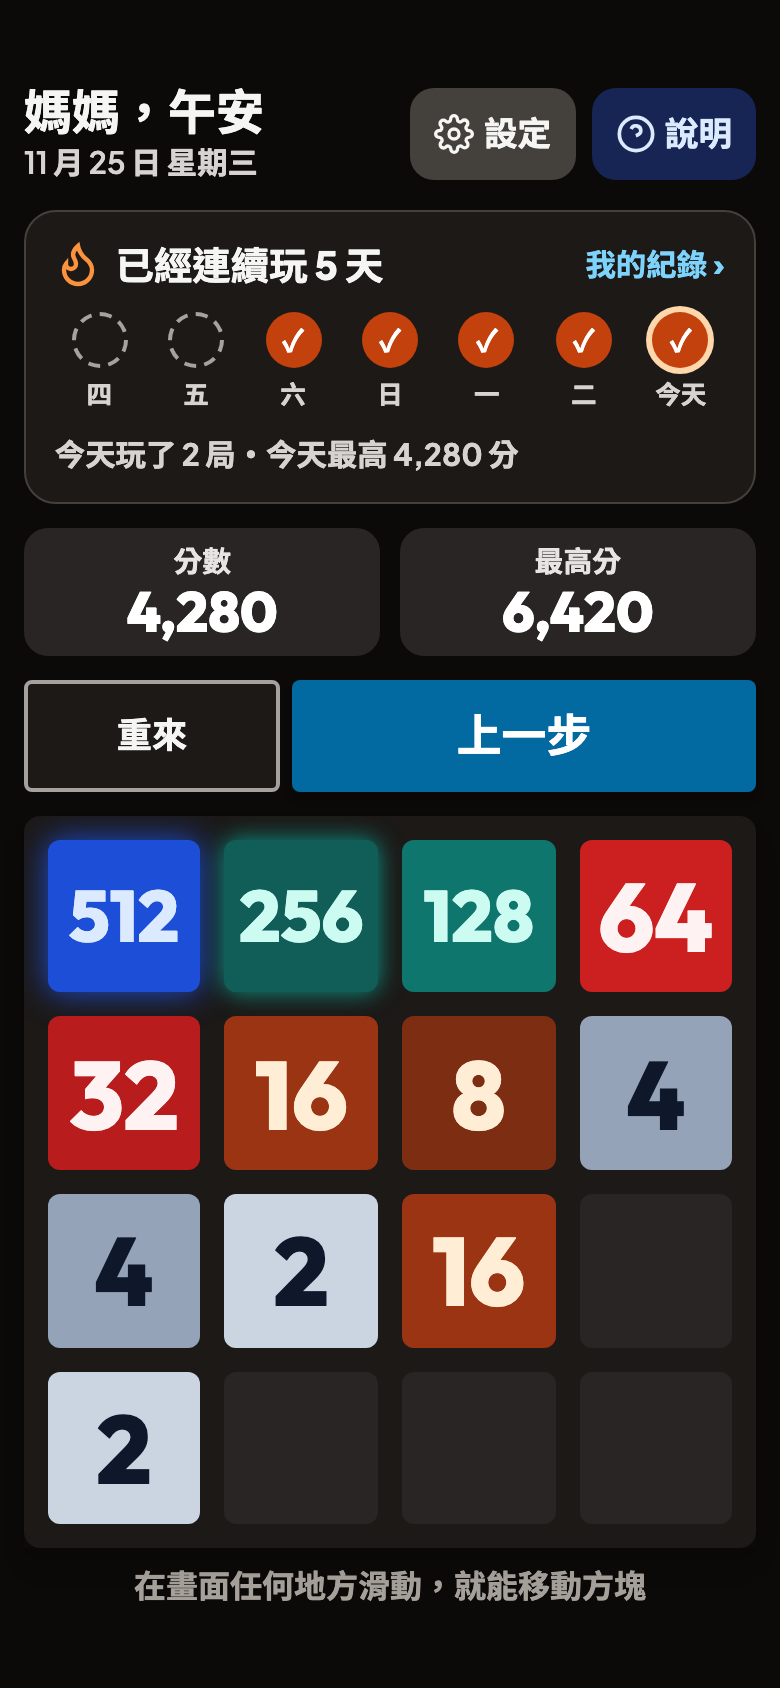
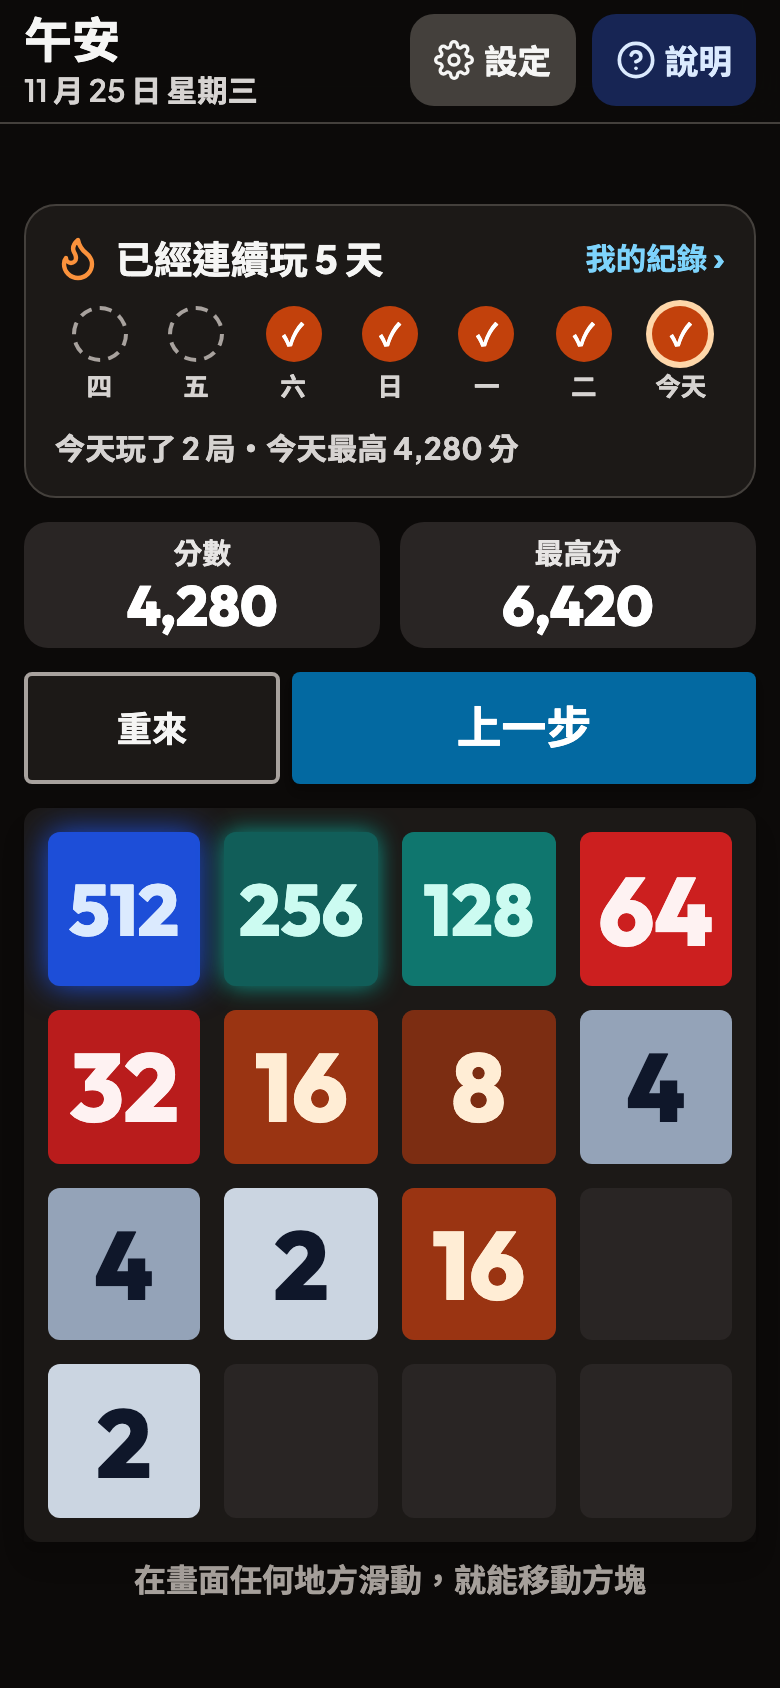
chore: 公開文案改為給家人、晚上問候改晚安並更新截圖

diff --git a/index.html b/index.html
@@ -240,7 +240,7 @@
         <h2 id="hello-dialog-title" class="text-2xl font-black mb-2">要怎麼稱呼你？</h2>
         <p class="mb-4 text-stone-600 dark:text-stone-300 leading-relaxed">會顯示在最上面的問候語，破紀錄時也會用這個名字。</p>
         <label for="hello-name-input" class="sr-only">稱呼</label>
-        <input type="text" id="hello-name-input" maxlength="8" placeholder="例如：媽媽" autocomplete="nickname" class="w-full p-3 mb-5 border border-stone-300 dark:border-stone-700 rounded bg-stone-50 dark:bg-stone-950 text-stone-800 dark:text-stone-200 outline-none focus:border-blue-500 font-bold text-xl shadow-inner">
+        <input type="text" id="hello-name-input" maxlength="8" placeholder="輸入想顯示的稱呼" autocomplete="nickname" class="w-full p-3 mb-5 border border-stone-300 dark:border-stone-700 rounded bg-stone-50 dark:bg-stone-950 text-stone-800 dark:text-stone-200 outline-none focus:border-blue-500 font-bold text-xl shadow-inner">
         <div class="flex flex-col gap-3">
             <button data-action="saveHello" class="w-full bg-sky-700 hover:bg-sky-800 text-white py-3 rounded font-bold text-lg shadow-md">好</button>
             <button data-action="skipHello" class="w-full text-stone-600 dark:text-stone-300 py-2 font-bold underline">略過</button>

diff --git a/src/game/greeting.ts b/src/game/greeting.ts
@@ -6,9 +6,9 @@ export function weekdayLabel(weekday: number): string {
   return WEEKDAYS[weekday];
 }
 
-/** 早安（5–11 點）、午安（11–18 點）、晚上好（其他時間）；有名字時加在前面 */
+/** 早安（5–11 點）、午安（11–18 點）、晚安（其他時間）；有名字時加在前面 */
 export function greeting(name: string, hour: number): string {
-  const word = hour >= 5 && hour < 11 ? "早安" : hour >= 11 && hour < 18 ? "午安" : "晚上好";
+  const word = hour >= 5 && hour < 11 ? "早安" : hour >= 11 && hour < 18 ? "午安" : "晚安";
   const trimmed = name.trim();
   return trimmed ? `${trimmed}，${word}` : word;
 }

diff --git a/src/game/greeting.test.ts b/src/game/greeting.test.ts
@@ -6,12 +6,12 @@ describe("greeting", () => {
     expect(greeting("", 7)).toBe("早安");
     expect(greeting("", 11)).toBe("午安");
     expect(greeting("", 17)).toBe("午安");
-    expect(greeting("", 18)).toBe("晚上好");
-    expect(greeting("", 2)).toBe("晚上好");
+    expect(greeting("", 18)).toBe("晚安");
+    expect(greeting("", 2)).toBe("晚安");
   });
 
   it("有名字時加在前面，沒名字（或只有空白）時只有問候語", () => {
-    expect(greeting("媽媽", 14)).toBe("媽媽，午安");
+    expect(greeting("小明", 14)).toBe("小明，午安");
     expect(greeting("  ", 14)).toBe("午安");
   });
 });

diff --git a/src/main.ts b/src/main.ts
@@ -289,6 +289,7 @@ function move(dir: Direction) {
 
 function continueGame() {
   hasContinued = true;
+  saveActiveGame();
 }
 
 function changeGridSize(size: number) {
@@ -761,7 +762,6 @@ const actions: Record<string, () => void> = {
   confirmRestart,
   undo,
   clearLeaderboard,
-  continueGame,
   openSettings,
   openRecords,
   openHello,

diff --git a/README.md b/README.md
@@ -1,6 +1,6 @@
-# 2048（給媽媽玩的版本）
+# 2048（給家人玩的版本）
 
-做給媽媽在手機上玩的 2048 網頁版：大字、好按、沒有廣告、離線也能玩。  
+做給家人在手機上玩的 2048 網頁版：大字、好按、沒有廣告、離線也能玩。  
 玩法取自 [Gabriele Cirulli](https://github.com/gabrielecirulli/2048) 的經典開源遊戲 2048，這個專案是自己用 TypeScript 與原生 DOM 重寫、一步步針對長輩使用習慣調整出來的練習作品。
 
 線上試玩：https://2048-drab.vercel.app
